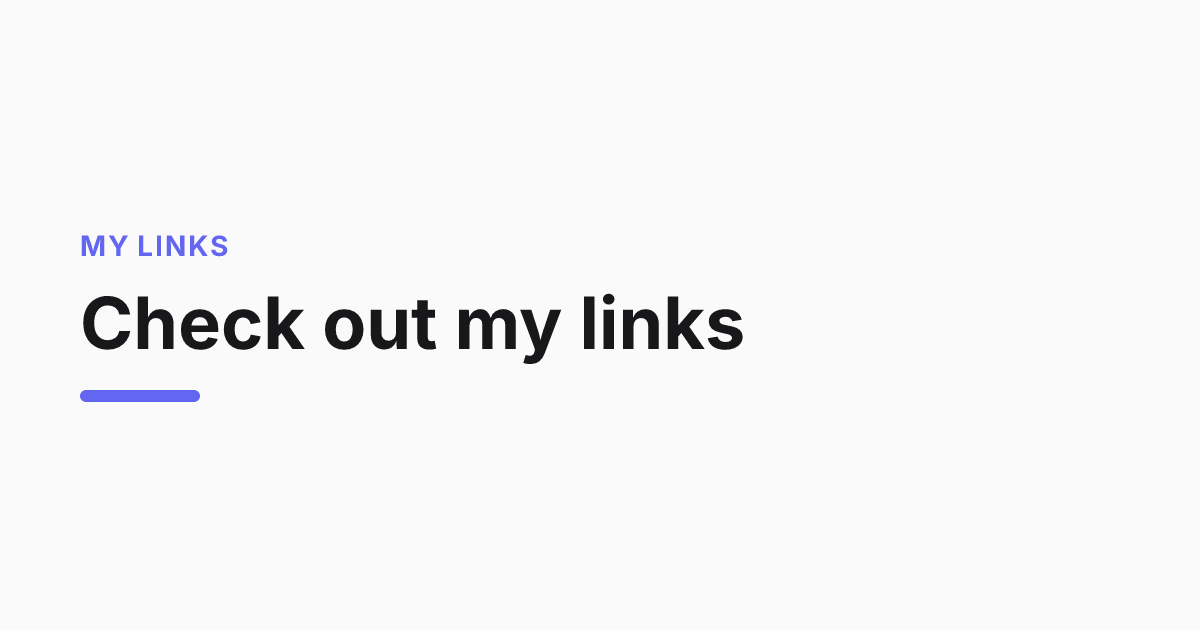
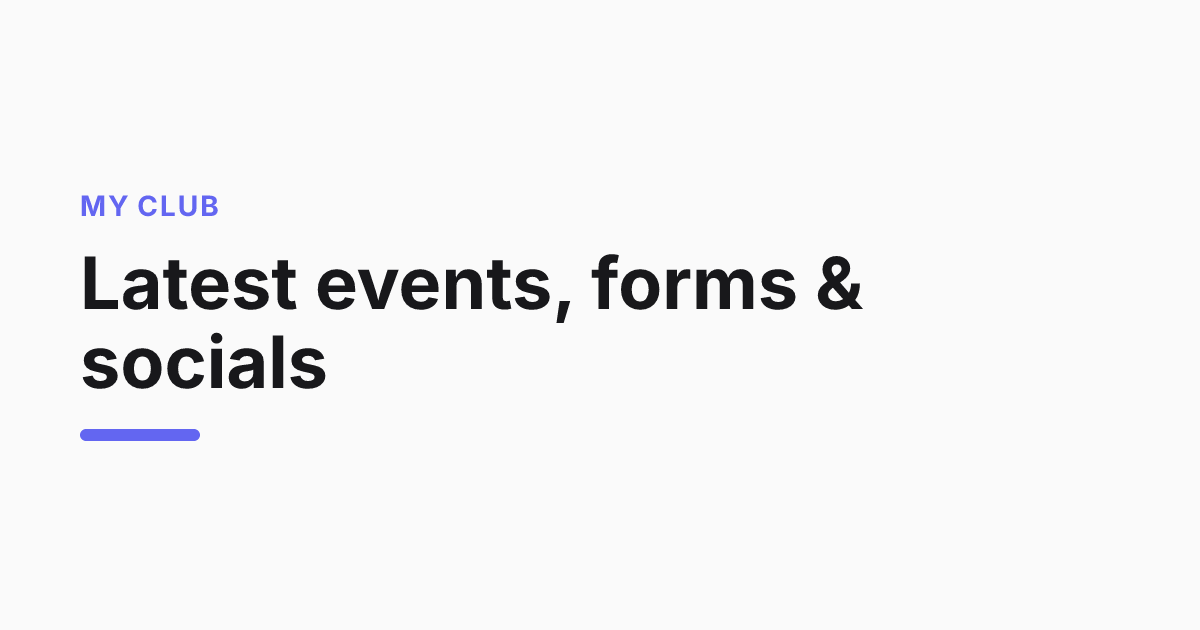
feat: support Cloudflare UI/GitHub auto-provisioning of D1 + R2
- Omit database_id from wrangler.jsonc so the platform auto-creates the DB
- Add scripts/patch-db-id.mjs so db:migrate:remote resolves the provisioned id
- README: document Option A (GitHub/UI auto-provision) vs Option B (manual CLI)

Changed region(s): [[0.0617, 0.3016, 0.74, 0.7238]]

diff --git a/README.md b/README.md
@@ -38,6 +38,30 @@ are empty in `.dev.vars`. The public page is at `/`, the dashboard at `/admin`.
 
 ## Deploy
 
+### Option A — Cloudflare UI / GitHub (recommended)
+
+Cloudflare can **auto-provision** the D1 database and R2 bucket for you. In
+`wrangler.jsonc`, `database_id` is intentionally **omitted** so the platform
+creates the resources automatically and injects the real id on deploy.
+
+1. Push this repo to GitHub (done).
+2. Cloudflare dashboard → **Workers & Pages** → **Create** → **Import repository**
+   (or use the *Deploy to Cloudflare* button if the repo is public).
+3. Cloudflare clones the repo, **auto-creates `club-link-db` + `club-link-uploads`**,
+   and deploys. Subsequent pushes to the connected branch redeploy automatically.
+4. Apply the schema to the remote database:
+   ```bash
+   npm run db:migrate:remote   # auto-resolves the provisioned D1 id
+   npm run db:seed:remote
+   ```
+5. Set the two secrets (never auto-created):
+   ```bash
+   npx wrangler secret put ACCESS_TEAM_DOMAIN   # e.g. https://yourteam.cloudflareaccess.com
+   npx wrangler secret put ACCESS_AUD           # your Access application AUD tag
+   ```
+
+### Option B — manual CLI
+
 1. **Create D1 + R2 resources** (one-time):
 
 ```bash
@@ -45,7 +69,7 @@ npx wrangler d1 create club-link-db        # → copy the database_id
 npx wrangler r2 bucket create club-link-uploads
 ```
 
-2. Put the D1 `database_id` into `wrangler.jsonc`.
+2. Put the D1 `database_id` into `wrangler.jsonc` (or rely on `scripts/patch-db-id.mjs` to fetch it).
 
 3. Set Access secrets so `/api/admin/*` is protected:
 
@@ -57,8 +81,7 @@ npx wrangler secret put ACCESS_AUD           # your Access application AUD tag
 4. Deploy:
 
 ```bash
-npm run build        # regenerates public/og.png, then builds worker + SPA
-npx wrangler deploy
+npm run deploy       # regenerates public/og.png, then builds worker + SPA and deploys
 ```
 
 5. Apply the schema to the remote D1:
@@ -67,6 +90,10 @@ npx wrangler deploy
 npm run db:migrate:remote
 npm run db:seed:remote
 ```
+
+> `db:migrate:remote` runs `scripts/patch-db-id.mjs` first, which fetches the
+> D1 database id from your account if it isn't in the config yet — so the
+> command works whether you created the DB manually or it was auto-provisioned.
 
 ## Protecting /admin with Cloudflare Access
 
